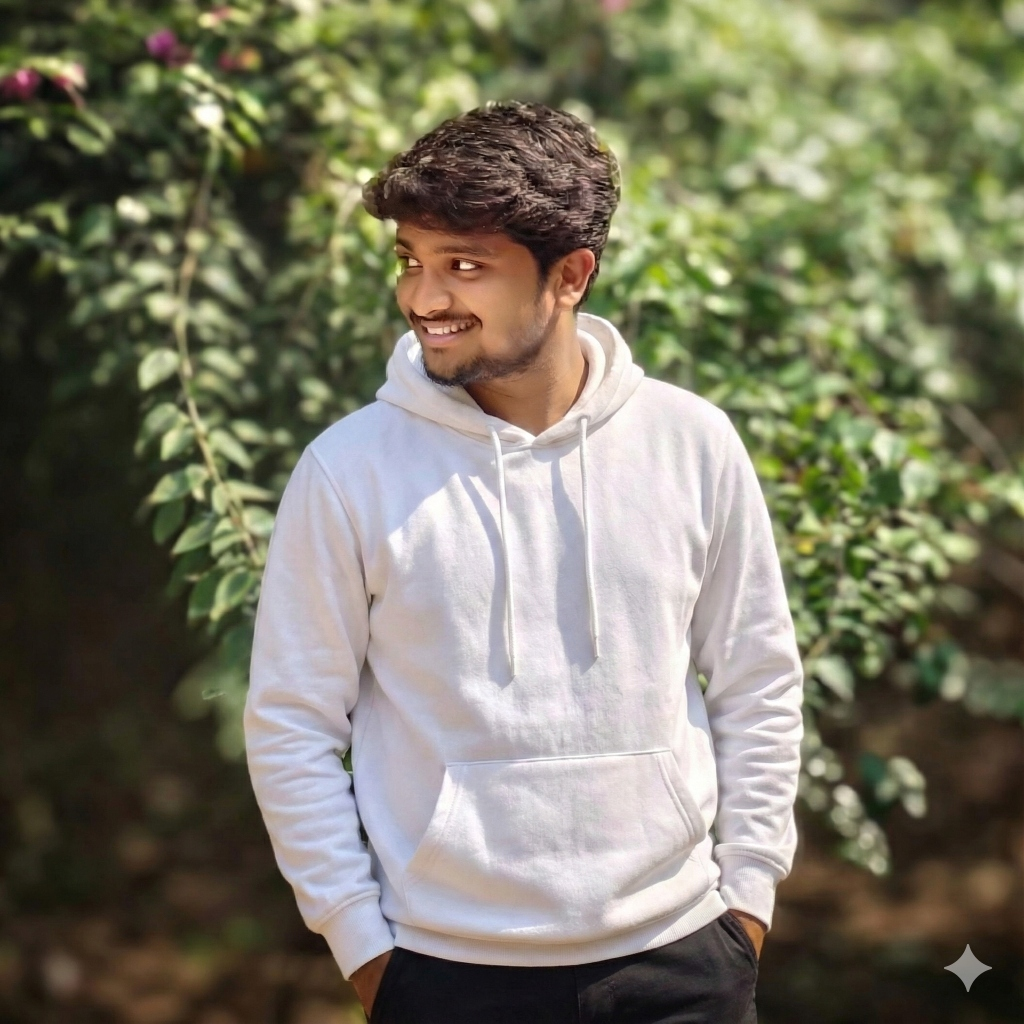
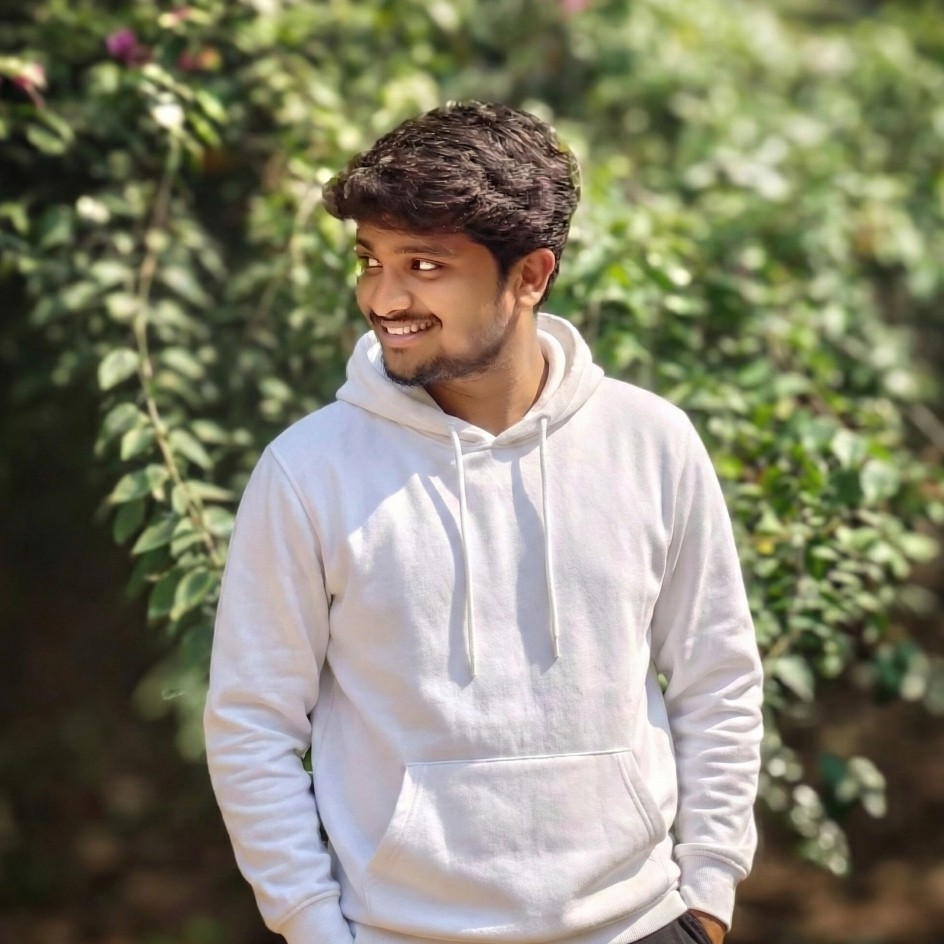
feat: add profile images and Hero section component

diff --git a/src/components/Hero.tsx b/src/components/Hero.tsx
@@ -216,14 +216,14 @@ export default function Hero() {
             </div>
 
             {/* Professional Role Tags (Confetti sticker pills) */}
-            <div ref={descriptorRef} className="flex flex-wrap items-center gap-2.5 sm:gap-3 mt-4 sm:mt-5">
-              <span className="hero-role-tag inline-flex items-center gap-1.5 px-3.5 py-1.5 rounded-full bg-accent text-accent-foreground font-heading font-bold text-xs sm:text-sm border-2 border-foreground shadow-[3px_3px_0px_#1E293B] hover:-translate-y-0.5 hover:rotate-1 transition-all">
+            <div ref={descriptorRef} className="flex flex-wrap items-center gap-3 sm:gap-4 mt-5 sm:mt-6">
+              <span className="hero-role-tag inline-flex items-center gap-2 px-4 py-2 rounded-full bg-accent text-accent-foreground font-heading font-bold text-xs sm:text-sm border-2 border-foreground shadow-[3px_3px_0px_#1E293B] hover:-translate-y-0.5 hover:rotate-1 transition-all">
                 ✦ Web Developer
               </span>
-              <span className="hero-role-tag inline-flex items-center gap-1.5 px-3.5 py-1.5 rounded-full bg-tertiary text-foreground font-heading font-bold text-xs sm:text-sm border-2 border-foreground shadow-[3px_3px_0px_#1E293B] hover:-translate-y-0.5 hover:-rotate-1 transition-all">
+              <span className="hero-role-tag inline-flex items-center gap-2 px-4 py-2 rounded-full bg-tertiary text-foreground font-heading font-bold text-xs sm:text-sm border-2 border-foreground shadow-[3px_3px_0px_#1E293B] hover:-translate-y-0.5 hover:-rotate-1 transition-all">
                 ★ AI Builder
               </span>
-              <span className="hero-role-tag inline-flex items-center gap-1.5 px-3.5 py-1.5 rounded-full bg-secondary text-foreground font-heading font-bold text-xs sm:text-sm border-2 border-foreground shadow-[3px_3px_0px_#1E293B] hover:-translate-y-0.5 hover:rotate-1 transition-all">
+              <span className="hero-role-tag inline-flex items-center gap-2 px-4 py-2 rounded-full bg-secondary text-foreground font-heading font-bold text-xs sm:text-sm border-2 border-foreground shadow-[3px_3px_0px_#1E293B] hover:-translate-y-0.5 hover:-rotate-1 transition-all">
                 ● Creative Engineer
               </span>
             </div>
@@ -231,7 +231,7 @@ export default function Hero() {
             {/* Short Description */}
             <p
               ref={descriptionRef}
-              className="text-foreground/80 text-base sm:text-lg md:text-xl leading-relaxed max-w-xl mt-5 sm:mt-6 font-medium"
+              className="text-foreground/80 text-base sm:text-lg md:text-xl leading-relaxed max-w-xl mt-8 sm:mt-9 md:mt-10 font-medium"
             >
               I build thoughtful websites and useful digital experiences for businesses, startups, and personal brands.
             </p>
@@ -333,7 +333,7 @@ export default function Hero() {
                   height={1024}
                   priority
                   sizes="(max-width: 640px) 320px, (max-width: 1024px) 420px, 460px"
-                  className="w-full h-auto object-cover object-center select-none pointer-events-none filter contrast-[1.03]"
+                  className="w-full h-auto object-cover object-center scale-115 sm:scale-120 origin-[50%_35%] select-none pointer-events-none filter contrast-[1.03]"
                 />
               </div>
 
